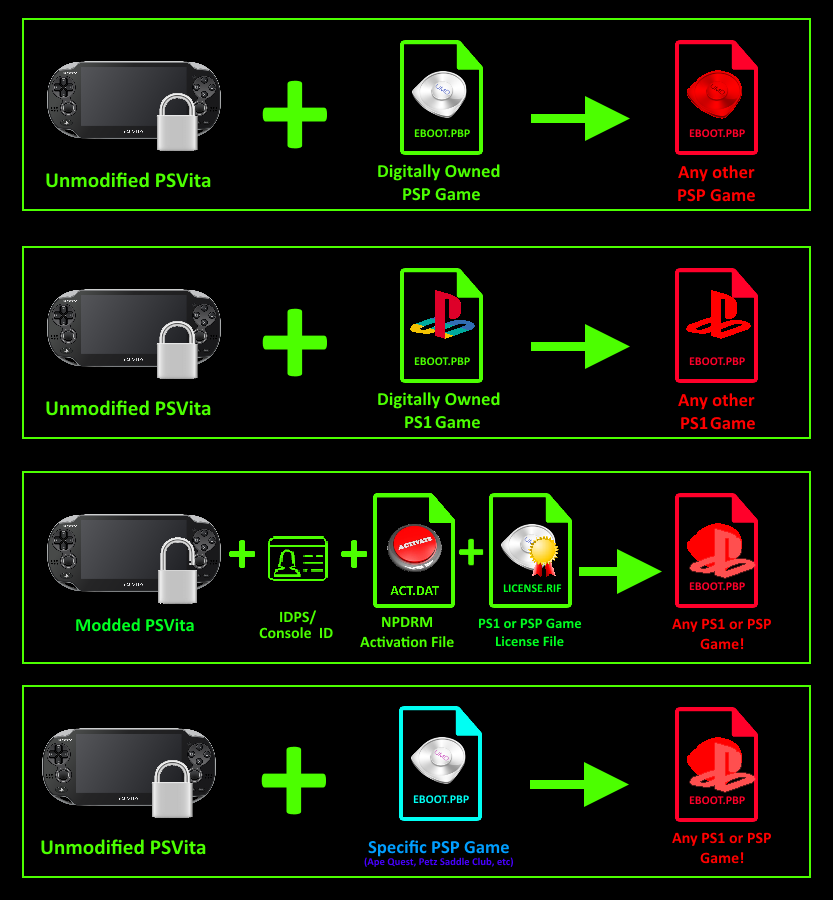
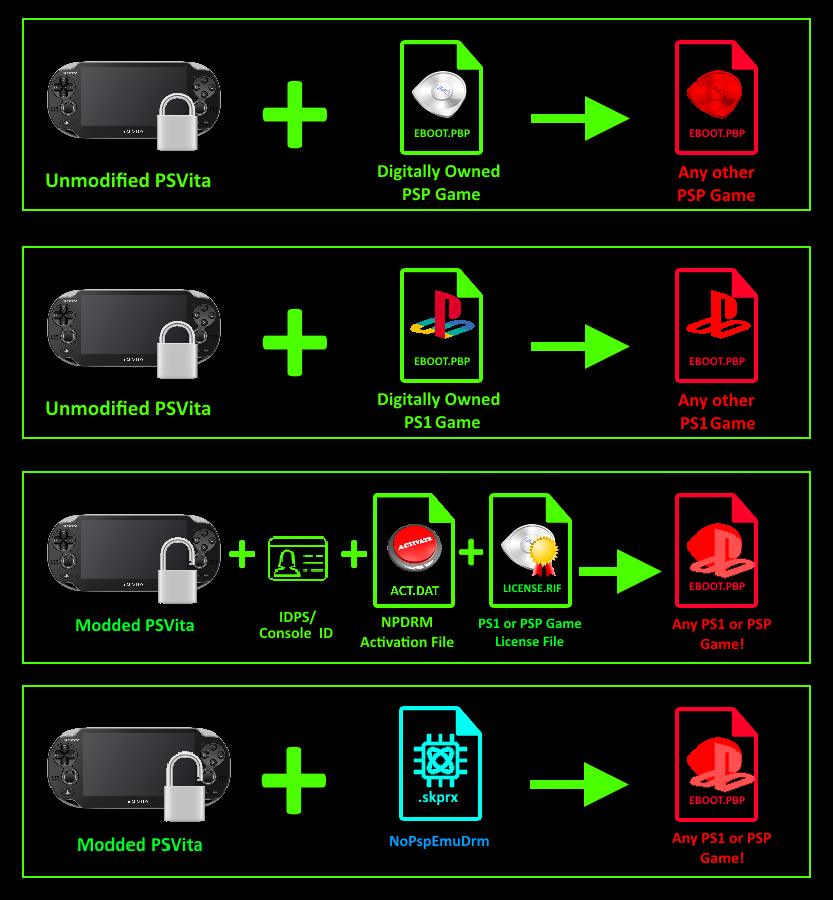
add nopspemudrm key gen method

Changed region(s): [[0.0312, 0.8089, 0.2809, 0.9644], [0.4994, 0.8089, 0.5618, 0.9022], [0.437, 0.9333, 0.6242, 0.9644]]

diff --git a/ChovySign-GUI/Popup/Global/KeySelector/NoPspEmuDrmMethodGUI.axaml.cs b/ChovySign-GUI/Popup/Global/KeySelector/NoPspEmuDrmMethodGUI.axaml.cs
@@ -1,0 +1,99 @@
+using Avalonia.Controls;
+using Avalonia.Interactivity;
+using Li.Utilities;
+using ChovySign_GUI.Global;
+using LibChovy.Config;
+using LibChovy.VersionKey;
+using GameBuilder.Psp;
+using System;
+using System.IO;
+using System.Text.RegularExpressions;
+using static ChovySign_GUI.Popup.Global.MessageBox;
+namespace ChovySign_GUI.Popup.Global.KeySelector
+{
+    public partial class NoPspEmuDrmMethodGUI : Window
+    {
+        private const string nopspemuContentId = "NOPSPEMUDRM_CONTENTID";
+
+        private NpDrmRif? rif;
+
+        public NpDrmRif? Rif
+        {
+            get
+            {
+                return rif;
+            }
+        }
+
+
+        public NoPspEmuDrmMethodGUI()
+        {
+            string? lastNoPspEmuDrmContentId = ChovyConfig.CurrentConfig.GetString(nopspemuContentId);
+
+            InitializeComponent();
+
+            // reload previous settings
+            if(lastNoPspEmuDrmContentId is not null)
+                this.contentIdInput.Text = (string)lastNoPspEmuDrmContentId;
+            else
+                this.contentIdInput.Text = "EP0099-ULUS09999_00-CHOVYSIGN0000000";
+
+            contentIdInput.TextChanged += onContentIdChange;
+
+            check();
+
+        }
+
+        private void onContentIdChange(object? sender, EventArgs e)
+        {
+            LabeledTextBox? labledTxtBox = sender as LabeledTextBox;
+
+            check();
+
+            if (labledTxtBox is null) return;
+            if (Regex.Matches(labledTxtBox.Text, "^[A-Z]{2}[0-9]{4}-[A-Z]{4}[0-9]{5}_[0-9]{2}-[A-Z0-9]{16}$").Count <= 0) return;
+
+            try
+            {
+                ChovyConfig.CurrentConfig.SetString(nopspemuContentId, labledTxtBox.Text);
+            }
+            catch{ };
+        }
+
+        private void keyGenClick(object sender, RoutedEventArgs e)
+        {
+            NpDrmInfo[] keys = new NpDrmInfo[0x5];
+
+            Window? currentWindow = this.VisualRoot as Window;
+            if (currentWindow is not Window) throw new Exception("could not find current window");
+
+            try
+            {
+                // read data
+                string contentId = contentIdInput.Text;
+
+                // generate keys
+                for (int i = 0; i < 0x5; i++)
+                    keys[i] = NoPspEmuDrmMethod.GetVersionKey(contentId, i);
+
+                this.rif = NpDrmRif.CreateNoPspEmuDrmRif(contentId);
+
+                this.Close(keys);
+
+            }
+            catch { MessageBox.Show(currentWindow, "Failed to generate key...", "Failed", MessageBoxButtons.Ok); }
+
+        }
+
+        private void check()
+        {
+            bool s = true;
+
+            if (contentIdInput.Text.Length != 36) s = false;
+            if (Regex.Matches(contentIdInput.Text, "^[A-Z]{2}[0-9]{4}-[A-Z]{4}[0-9]{5}_[0-9]{2}-[A-Z0-9]{16}$").Count <= 0) s = false;
+
+            keyGen.IsEnabled = s;
+        }
+
+    }
+}

diff --git a/ChovySign-GUI/Popup/Global/KeySelector/ActRifMethodGUI.axaml.cs b/ChovySign-GUI/Popup/Global/KeySelector/ActRifMethodGUI.axaml.cs
@@ -1,10 +1,10 @@
 using Avalonia.Controls;
 using Avalonia.Interactivity;
+using Li.Utilities;
 using ChovySign_GUI.Global;
 using LibChovy.Config;
 using LibChovy.VersionKey;
 using GameBuilder.Psp;
-using Li.Utilities;
 using System;
 using System.IO;
 using static ChovySign_GUI.Popup.Global.MessageBox;
@@ -47,7 +47,6 @@ namespace ChovySign_GUI.Popup.Global.KeySelector
 
             if (lastAct is not null)
                 actFile.FilePath = lastAct;
-
             if (lastCid is not null)
                 idpsInput.Text = BitConverter.ToString(lastCid).Replace("-", "");
             if (lastAct is not null)
@@ -55,8 +54,7 @@ namespace ChovySign_GUI.Popup.Global.KeySelector
             if (lastRif is not null)
                 rifFile.FilePath = lastRif;
 
-            hideConsoleId.Checked += onChangeCidState;
-            hideConsoleId.Unchecked += onChangeCidState;
+            hideConsoleId.IsCheckedChanged += onChangeCidState;
 
             idpsInput.TextChanged += onIdpsChange;
             actFile.FileChanged += onActFileChange;
@@ -69,27 +67,31 @@ namespace ChovySign_GUI.Popup.Global.KeySelector
         private void onRifFileChange(object? sender, EventArgs e)
         {
             BrowseButton? filePth = sender as BrowseButton;
+
+            check();
+
             if (filePth is null) return;
             if (!filePth.ContainsFile) return;
             ChovyConfig.CurrentConfig.SetString(keygenRifKey, filePth.FilePath);
-
-            check();
         }
 
         private void onActFileChange(object? sender, EventArgs e)
         {
             BrowseButton? filePth = sender as BrowseButton;
+            
+            check();
+
             if (filePth is null) return;
             if (!filePth.ContainsFile) return;
             ChovyConfig.CurrentConfig.SetString(keygenActKey, filePth.FilePath);
-
-            check();
         }
 
         private void onIdpsChange(object? sender, EventArgs e)
         {
             LabeledTextBox? labledTxtBox = sender as LabeledTextBox;
-            
+
+            check();
+
             if (labledTxtBox is null) return;
             if (labledTxtBox.Text.Length != 32) return;
 
@@ -97,7 +99,6 @@ namespace ChovySign_GUI.Popup.Global.KeySelector
             {
                 byte[] idps = MathUtil.StringToByteArray(labledTxtBox.Text);
                 ChovyConfig.CurrentConfig.SetBytes(keygenIdpsKey, idps);
-                check();
             }
             catch{ };
         }

diff --git a/Vita/PsvImgTools/PSVIMGStream.cs b/Vita/PsvImgTools/PSVIMGStream.cs
@@ -224,7 +224,7 @@ namespace Vita.PsvImgTools
         }
         private void update()
         {
-            long offset = Position % PSVIMGConstants.FULL_PSVIMG_SIZE;
+            long offset = Position % PSVIMGConstants.FULL_PSVIMG_BLOCK_SIZE;
             long blockIndex = getBlockIndex();
             byte[] decryptedBlock = getBlock(blockIndex);
             blockStream.Seek(0x00, SeekOrigin.Begin);
@@ -244,15 +244,15 @@ namespace Vita.PsvImgTools
 
             while (true)
             {
-                blockOffset = i * PSVIMGConstants.FULL_PSVIMG_SIZE + PSVIMGConstants.AES_BLOCK_SIZE;
+                blockOffset = i * PSVIMGConstants.FULL_PSVIMG_BLOCK_SIZE + PSVIMGConstants.AES_BLOCK_SIZE;
                 long remaining = getRemainingBase();
-                if (remaining < PSVIMGConstants.FULL_PSVIMG_SIZE)
+                if (remaining < PSVIMGConstants.FULL_PSVIMG_BLOCK_SIZE)
                 {
                     fullBlock = blockOffset + remaining;
                 }
                 else
                 {
-                    fullBlock = blockOffset + PSVIMGConstants.FULL_PSVIMG_SIZE;
+                    fullBlock = blockOffset + PSVIMGConstants.FULL_PSVIMG_BLOCK_SIZE;
                 }
                 if (curPos >= blockOffset && curPos < fullBlock)
                 {
@@ -288,7 +288,7 @@ namespace Vita.PsvImgTools
         private void seekToBlock(long blockIndex)
         {
             long blockOffset;
-            blockOffset = blockIndex * PSVIMGConstants.FULL_PSVIMG_SIZE + PSVIMGConstants.AES_BLOCK_SIZE;
+            blockOffset = blockIndex * PSVIMGConstants.FULL_PSVIMG_BLOCK_SIZE + PSVIMGConstants.AES_BLOCK_SIZE;
 
             if (blockOffset > baseStream.Length)
             {
@@ -326,9 +326,9 @@ namespace Vita.PsvImgTools
             byte[] iv = getIV(blockIndex);
             long remaining = getRemainingBase();
             byte[] encryptedBlock;
-            if (PSVIMGConstants.FULL_PSVIMG_SIZE < remaining)
+            if (PSVIMGConstants.FULL_PSVIMG_BLOCK_SIZE < remaining)
             {
-                encryptedBlock = new byte[PSVIMGConstants.FULL_PSVIMG_SIZE];
+                encryptedBlock = new byte[PSVIMGConstants.FULL_PSVIMG_BLOCK_SIZE];
             }
             else
             {

diff --git a/ChovySign-GUI/Global/KeySelector.axaml.cs b/ChovySign-GUI/Global/KeySelector.axaml.cs
@@ -163,6 +163,14 @@ namespace ChovySign_GUI.Global
                     key = CMAVersionKeyHelper.GetKeyFromGamePsvimg(gameBackupFolder, accountId, this.keyIndex);
                     rif = CMAVersionKeyHelper.GetRifFromLicensePsvimg(gameBackupFolder, accountId);
                     break;
+                case VersionKeyMethod.NOPSPEMUDRM_METHOD:
+                    NoPspEmuDrmMethodGUI noPspEmuDrmMethodGUI = new NoPspEmuDrmMethodGUI();
+                    keys = await noPspEmuDrmMethodGUI.ShowDialog<NpDrmInfo[]>(currentWindow);
+                    if (keys is null) break;
+
+                    key = keys[keyIndex];
+                    rif = noPspEmuDrmMethodGUI.Rif;
+                    break;
                 case VersionKeyMethod.KEYS_TXT_METHOD:
                     CmaBackupPicker pspLicenseBackupSelector = new CmaBackupPicker();
                     pspLicenseBackupSelector.BackupType = new string[] { "PGAME", "PSGAME" };
@@ -187,7 +195,7 @@ namespace ChovySign_GUI.Global
             {
                 if (key.KeyIndex != this.keyIndex)
                     sceNpDrmTransformVersionKey(key.VersionKey, key.KeyIndex, this.keyIndex); 
-                // its a revoolution~
+                // its a reeeevolution~
 
                 VersionKey = key.VersionKey;
             }

diff --git a/GameBuilder/Psp/NpDrmRif.cs b/GameBuilder/Psp/NpDrmRif.cs
@@ -1,4 +1,5 @@
 using Ionic.Zlib;
+using Li.Utilities;
 using Org.BouncyCastle.Asn1.Mozilla;
 using System;
 using System.Buffers.Text;
@@ -45,6 +46,21 @@ namespace GameBuilder.Psp
             }
         }
 
+        public static NpDrmRif CreateNoPspEmuDrmRif(string contentId)
+        {
+            using(MemoryStream rifStream = new MemoryStream())
+            {
+                StreamUtil rifUtil = new StreamUtil(rifStream);
 
+                rifUtil.WriteUInt64(0x00); // start of rif
+                rifUtil.WriteUInt64(0x0123456789ABCDEF); // accountId
+                rifUtil.WriteCStrWithPadding(contentId, 0x00, 0x30); // contentId
+                rifUtil.WritePadding(0x00, 0x30); // key1,key2
+                rifUtil.WritePadding(0xFF, 0x28); // ecdsa sig
+
+                rifStream.Seek(0, SeekOrigin.Begin);
+                return new NpDrmRif(rifStream.ToArray());
+            }
+        }
     }
 }

diff --git a/LibChovy/VersionKey/NoPspEmuDrmMethod.cs b/LibChovy/VersionKey/NoPspEmuDrmMethod.cs
@@ -1,0 +1,25 @@
+using GameBuilder.Psp;
+using PspCrypto;
+using System;
+using System.Collections.Generic;
+using System.Linq;
+using System.Security.Cryptography;
+using System.Text;
+using System.Threading.Tasks;
+
+namespace LibChovy.VersionKey
+{
+    public class NoPspEmuDrmMethod
+    {
+        public static NpDrmInfo GetVersionKey(string contentId, int keyIndex)
+        {
+            using (MD5 md = MD5.Create())
+            {
+                byte[] versionKey = md.ComputeHash(Encoding.UTF8.GetBytes(contentId));
+                SceNpDrm.sceNpDrmTransformVersionKey(versionKey, 0, keyIndex);
+
+                return new NpDrmInfo(versionKey, contentId, keyIndex);
+            }
+        }
+    }
+}

diff --git a/Vita/PsvImgTools/PSVIMGBuilder.cs b/Vita/PsvImgTools/PSVIMGBuilder.cs
@@ -184,8 +184,8 @@ namespace Vita.PsvImgTools
 
         internal virtual void startNewBlock()
         {
-            blockData = new byte[PSVIMGConstants.FULL_PSVIMG_SIZE];
-            blockStream = new MemoryStream(blockData, 0x00, PSVIMGConstants.FULL_PSVIMG_SIZE);
+            blockData = new byte[PSVIMGConstants.FULL_PSVIMG_BLOCK_SIZE];
+            blockStream = new MemoryStream(blockData, 0x00, PSVIMGConstants.FULL_PSVIMG_BLOCK_SIZE);
         }
 
 

diff --git a/ChovySign-GUI/Popup/Global/KeySelector/KeyObtainMethods.axaml.cs b/ChovySign-GUI/Popup/Global/KeySelector/KeyObtainMethods.axaml.cs
@@ -35,9 +35,9 @@ namespace ChovySign_GUI.Popup.Global.KeySelector
             this.Close(method);
         }
 
-        private void keysTxtMethodClick(object sender, RoutedEventArgs e)
+        private void noPspEmuDrmMethodClick(object sender, RoutedEventArgs e)
         {
-            this.method = VersionKeyMethod.KEYS_TXT_METHOD;
+            this.method = VersionKeyMethod.NOPSPEMUDRM_METHOD;
             this.Close(method);
         }
 

diff --git a/Vita/PsvImgTools/PSVIMGStructs.cs b/Vita/PsvImgTools/PSVIMGStructs.cs
@@ -18,7 +18,7 @@ namespace Vita.PsvImgTools
         public const byte PSVIMG_TAIL_PAD_BYTE = 0x7a;
         public const byte PSVIMG_PAD_BYTE = 0x2B;
 
-        public const int FULL_PSVIMG_SIZE = PSVIMG_BLOCK_SIZE + SHA256_BLOCK_SIZE;
+        public const int FULL_PSVIMG_BLOCK_SIZE = PSVIMG_BLOCK_SIZE + SHA256_BLOCK_SIZE;
     }
 
     internal class StringReader

diff --git a/LibChovy/VersionKey/ActRifMethod.cs b/LibChovy/VersionKey/ActRifMethod.cs
@@ -3,6 +3,8 @@ using PspCrypto;
 using System;
 using System.Collections.Generic;
 using System.Linq;
+using System.Runtime.Intrinsics.Arm;
+using System.Security.Cryptography;
 using System.Text;
 using System.Threading.Tasks;
 

diff --git a/LibChovy/VersionKey/VersionKeyMethod.cs b/LibChovy/VersionKey/VersionKeyMethod.cs
@@ -10,6 +10,7 @@ namespace LibChovy.VersionKey
     {
         ACT_RIF_METHOD = 1,
         EBOOT_PBP_METHOD = 2,
-        KEYS_TXT_METHOD = 3
+        NOPSPEMUDRM_METHOD = 3,
+        KEYS_TXT_METHOD = 4
     }
 }
